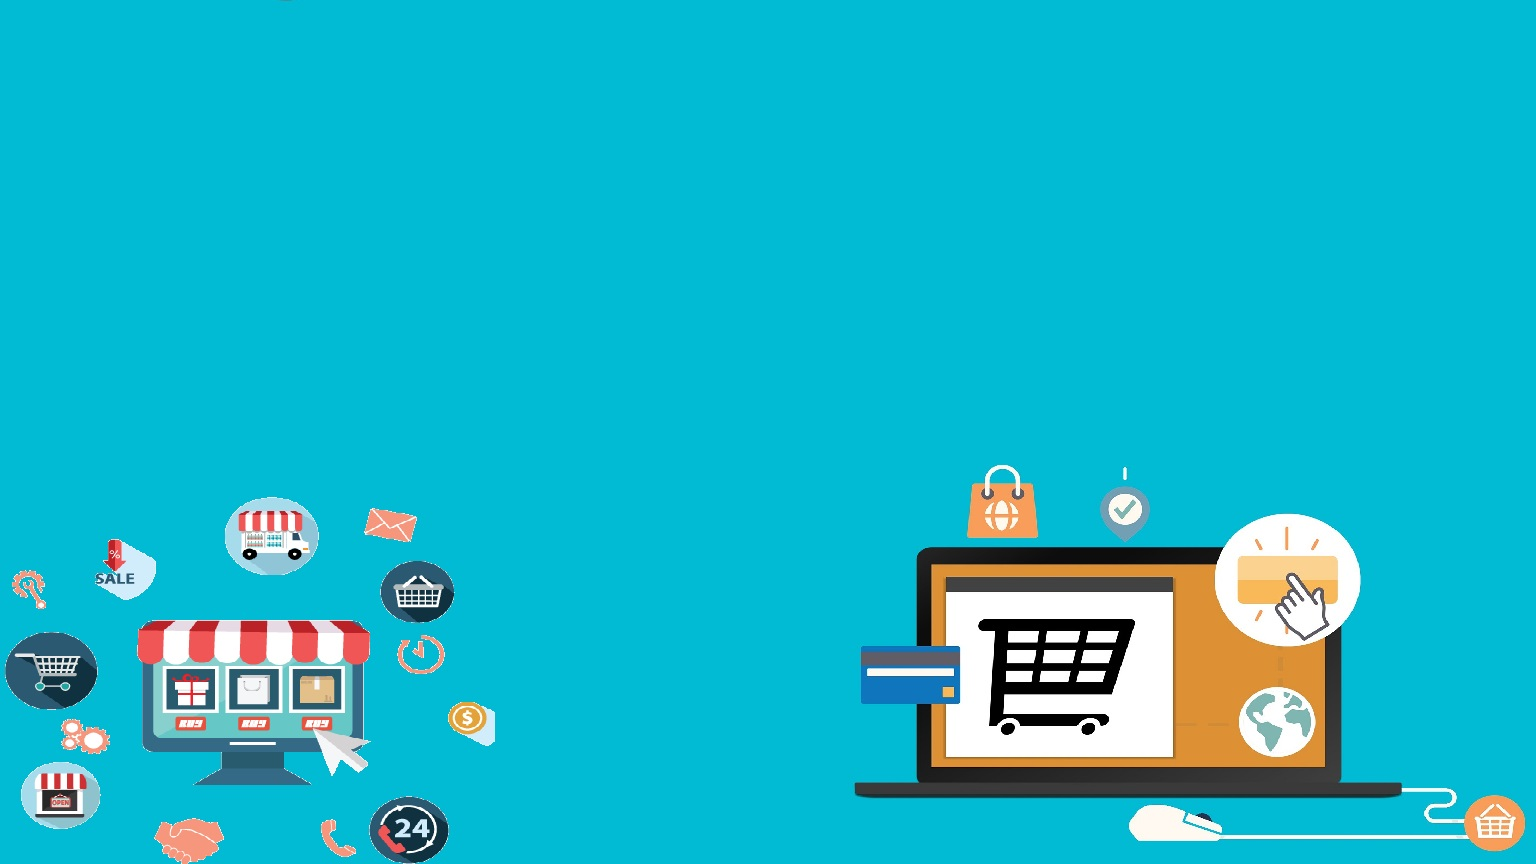
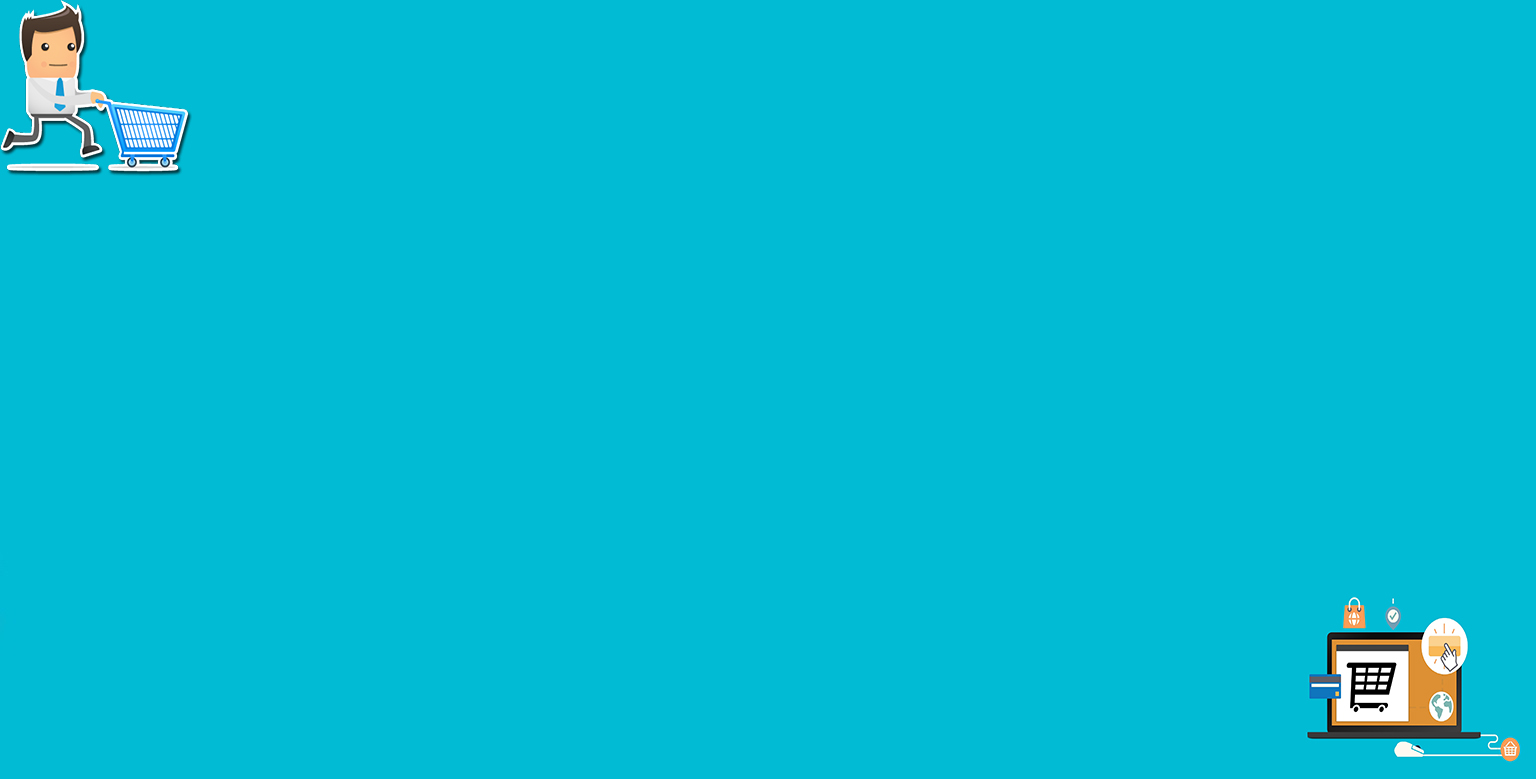
add main,welcome,result,signup page

diff --git a/public/css/styles2.css b/public/css/styles2.css
@@ -1,7 +1,2 @@
 body{
-    margin: 0;
-    padding: 0;
-    font-family: sans-serif;
-    background: url(/public/def.jpg)no-repeat;
-    background-size: cover;
-}
+   

diff --git a/resources/views/result.blade.php b/resources/views/result.blade.php
@@ -1,0 +1,65 @@
+@extends('layout/main')
+@section('title','Result')
+<style>
+    .form-group{
+        width:300px;
+        position : relative;
+        left:20%;
+        padding:3px;
+    }
+    .h2{
+          font-family:sans-serif;
+          color : whitesmoke;
+          text-align:center;
+
+        }
+    .media{
+
+    }
+</style>
+@section('container')
+<div class="media">
+  <img src="/css/bisnis.jpg" class="align-self-center mr-3" alt="...">
+  <div class="media-body">
+    <h2 class="mt-0">PRODUK</h2>
+<form>
+  <div class="form-group">
+    <label for="formGroupExampleInput">Nama</label>
+    <input type="text" class="form-control" id="formGroupExampleInput" placeholder="Nama Barang">
+  </div>
+  <div class="form-group">
+    <label for="formGroupExampleInput">Harga</label>
+    <input type="text" class="form-control" id="formGroupExampleInput" placeholder="Harga Barang">
+  </div>
+  <div class="form-group">
+    <label for="formGroupExampleInput2">Kategori</label>
+    <input type="text" class="form-control" id="formGroupExampleInput2" placeholder="Kategori Barang">
+  </div>
+  <div class="form-group">
+    <label for="formGroupExampleInput">Tahun</label>
+    <input type="text" class="form-control" id="formGroupExampleInput" placeholder="Tahun Barang">
+  </div>
+  <div class="form-group">
+    <label for="formGroupExampleInput">Kondisi</label>
+    <input type="text" class="form-control" id="formGroupExampleInput" placeholder="Kondisi Barang">
+  </div>
+  <div class="form-group">
+    <label for="formGroupExampleInput">Deskripsi</label>
+    <input type="text" class="form-control" id="formGroupExampleInput" placeholder="Deskripsi Barang">
+  </div>
+  <div class="form-group">
+  <div class="btn-toolbar" role="toolbar" aria-label="Toolbar with button groups">
+  <div class="btn-group mr-2" role="group" aria-label="First group">
+  <a href="/welcome">
+  <button type="button" class="btn btn-secondary">Reupload</button>
+  </a>
+  </div>
+  <div class="btn-group mr-2" role="group" aria-label="Second group">
+  <a href="/">
+  <button type="button" class="btn btn-primary">Finish/Logout</button>
+  </a>
+  </div>
+</form>
+  </div>
+</div>
+@endsection

diff --git a/resources/views/welcome.blade.php b/resources/views/welcome.blade.php
@@ -1,3 +1,49 @@
 @extends('layout/main')
 
 @section('title','Welcome')
+<style>
+    .form-group{
+        width:800px;
+        position : relative;
+        left:30%;
+        padding:3px;
+    }
+    .h2{
+          font-family:sans-serif;
+          color : whitesmoke;
+          text-align:center;
+
+        }
+</style>
+   
+@section('container')
+ <h2 class='h2'>Welcome, User<a href="/">.Logout?</a>
+ </h2>
+<form>
+  <div class="form-group">
+    <label for="formGroupExampleInput">Nama</label>
+    <input type="text" class="form-control" id="formGroupExampleInput" placeholder="Masukkan Nama Barang">
+  </div>
+  <div class="form-group">
+    <label for="formGroupExampleInput2">Kategori</label>
+    <input type="text" class="form-control" id="formGroupExampleInput2" placeholder="Masukkan Kategori Barang">
+  </div>
+  <div class="form-group">
+    <label for="formGroupExampleInput">Tahun</label>
+    <input type="text" class="form-control" id="formGroupExampleInput" placeholder="Masukkan Tahun Barang">
+  </div>
+  <div class="form-group">
+    <label for="formGroupExampleInput">Kondisi</label>
+    <input type="text" class="form-control" id="formGroupExampleInput" placeholder="Masukkan Kondisi Barang">
+  </div>
+  <div class="form-group">
+    <label for="formGroupExampleInput">Deskripsi</label>
+    <input type="text" class="form-control" id="formGroupExampleInput" placeholder="Masukkan Deskripsi Barang">
+  </div>
+  <div class="form-group">
+  <a href="/result">
+  <button type="submit" class="btn btn-primary">submit</button>
+  </a>
+  </div>
+</form>
+@endsection

diff --git a/resources/views/layout/main.blade.php b/resources/views/layout/main.blade.php
@@ -7,14 +7,31 @@
 
     <!-- Bootstrap CSS -->
     <link rel="stylesheet" href="https://stackpath.bootstrapcdn.com/bootstrap/4.3.1/css/bootstrap.min.css" integrity="sha384-ggOyR0iXCbMQv3Xipma34MD+dH/1fQ784/j6cY/iJTQUOhcWr7x9JvoRxT2MZw1T" crossorigin="anonymous">
-    <link rel="stylesheet" type="text/css" href="/css/styles2.css">
+    <!-- <link rel="stylesheet" type="text/css" href="/css/styles2.css"> -->
 
     <title>@yield('title')</title>
+  <style>
+      body{
+            margin: 0;
+            padding: 0;
+            font-family: sans-serif;
+            background: url(/def.jpg)no-repeat;
+            background-size: cover;
+        }
+        .h1{
+          font-family: sans-serif;
+          color: white;
+          text-align:center;
+          margin:55px;
+          font-size:60px;
+        }
+  </style>
   </head>
   <body>
-  
-<h1>hi</h1>
+    <h1 class='h1'>Price Recommendation</h1>
 
+@yield('container')
+  
     <!-- Optional JavaScript -->
     <!-- jQuery first, then Popper.js, then Bootstrap JS -->
     <script src="https://code.jquery.com/jquery-3.3.1.slim.min.js" integrity="sha384-q8i/X+965DzO0rT7abK41JStQIAqVgRVzpbzo5smXKp4YfRvH+8abtTE1Pi6jizo" crossorigin="anonymous"></script>

diff --git a/resources/views/signup.blade.php b/resources/views/signup.blade.php
@@ -1,0 +1,39 @@
+@extends('layout/main')
+@section('title','Signup')
+<style>
+    .form-group{
+        width:800px;
+        position : relative;
+        left:30%;
+        padding:3px;
+    }
+</style>
+@section('container')
+<form>
+  <div class="form-group row">
+    <label for="inputEmail3" class="col-sm-3 col-form-label">Email</label>
+    <div class="col-sm-10">
+      <input type="email" class="form-control" id="inputEmail3" placeholder="Email">
+    </div>
+  </div>
+  <div class="form-group row">
+    <label for="inputName3" class="col-sm-3 col-form-label">Username</label>
+    <div class="col-sm-10">
+    <input type="text" class="form-control" id="inputName3" placeholder="Username">
+    </div>
+  </div>
+  <div class="form-group row">
+    <label for="inputPassword3" class="col-sm-3 col-form-label">Password</label>
+    <div class="col-sm-10">
+      <input type="password" class="form-control" id="inputPassword3" placeholder="Password">
+    </div>
+  </div>
+  <div class="form-group row">
+    <div class="col-sm-10">
+  <a href="/">
+      <button type="submit" class="btn btn-primary">Sign Up</button>
+  </a>
+    </div>
+  </div>
+</form>
+@endsection

diff --git a/resources/views/home.blade.php b/resources/views/home.blade.php
@@ -23,7 +23,9 @@
     <a href="/welcome">
         <input class="btn" type="button" value ="Sign In"> 
     </a>
-    <input class="btn" type="button" value ="Sign In"> 
+    <a href="/signup">
+    <input class="btn" type="button" value ="Sign Up"> 
+    </a>
   </body>
 
 </html>

diff --git a/routes/web.php b/routes/web.php
@@ -17,3 +17,9 @@ Route::get('/', function () {
 route::get('/welcome',function(){
     return view('welcome');
 });
+route::get('/signup',function(){
+    return view('signup');
+});
+route::get('/result',function(){
+    return view('result');
+});
